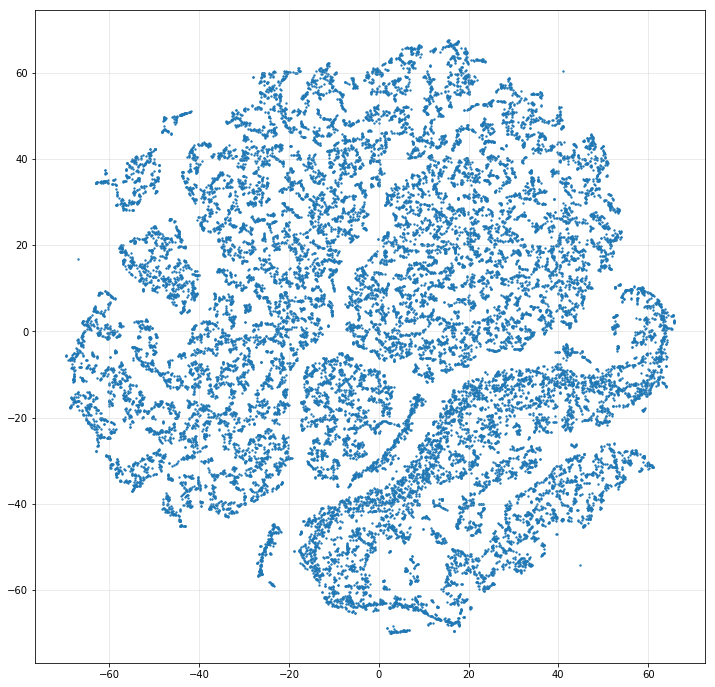
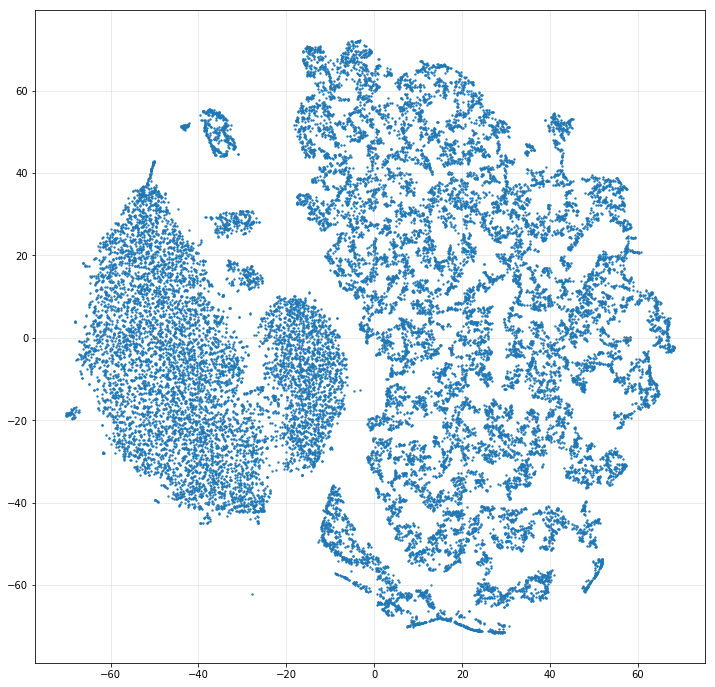
drafts

diff --git a/_drafts/2019-01-00-alphabeta.md b/_drafts/2019-01-00-alphabeta.md
@@ -21,12 +21,12 @@ An example of the stadard template, the vertical line indicates the cut-off used
 Signal noise
 ![Sharp Fluctuation][sharp]
 
-As we compare every event to a standard template, that means for every known signal, we have to painstakingly recreate the template waveform for every type of signal. This procedure has to be repeated if there is a minor change to detector system as a simple temperature can affect the way of the waveform detected. However, the signal is not always necessary consistent for the same kind of signal. Noises within the data can distort the interpreted information and it is heavily dependent by us as physcist to identify all possible senarios beforehand. Are machine learning tools can be incorperated into 
+As we compare every event to a standard template, that means for every known signal, we have to painstakingly recreate the template waveform for every type of signal. This procedure has to be repeated if there is a minor change to detector system as a simple temperature can affect the way of the waveform detected. However, the signal is not always necessary consistent for the same kind of signal. Noises within the data can distort the interpreted information and it is heavily dependent by us as physcist to identify all possible senarios beforehand. This labourous task is proven to be effective in the data analysis process in our physics experiment.
 
 Unsupervised Learning as Anomaly detection
 ====
 
-Within physics, machine learning has gain quite the popularity due to versatility of neural network can be applied in multitude of different ways. In some cases, improving the result compared to other know techniques/algorithms. With the wreath of data available in physics, it is no surprise how beneficial ML technique to physicist where ML techniques are mostly driven by the vast availability of data.
+Within physics, machine learning has gain quite the popularity due to versatility of neural network can be applied in multitude of different ways. In some cases, improving the result compared to other know techniques/algorithms. With the wreath of data available in physics, it is no surprise how beneficial ML technique to physicist where ML techniques are mostly driven by the vast availability and size of data.
 
 A particular algorithm in ML, t-Distributed Stochastic Neighbor Embedding (t-SNE) is an extremely useful technique where dimensionality of data can be reduced and the dataset can be visually represented in 2D/3D plots. This can be useful to observe the number of subset that present in the dataset. This can prove useful in physics experiments especially in experiments where physicist are hunting signal is unknown to mankind, ie:- dark matter. As we lack the full knowledge of how dark matter interacts normal matter of our detectors, we can only best predict dark matter signal by getting rid of known signals or predict the signal based on theoretical assumption of how dark matter might produce the signal. t-SNE might be a useful technique to visualise the number of subset from experimental dataset.
 
@@ -42,34 +42,79 @@ The goal of the VAE is to reproduce the waveform of a single events. Therefore t
 
 ![train]
 
-To ensure every node in the VAE is properly trained, I made additional training data by flipping the waveform backwards and randomly shift the pulse randomly and generate pure noise (np.flip/np.roll). At the end I have about ~200,000 waveforms that can be used to train the VEA. It is not necessary that the VAE has to reproduce the waveform perfectly but sufficiently captures the features of the waveforms in its latent variable. The reproduce waveform captures the primary features of the waveform is sufficient for such task.
+To ensure every node in the VAE is properly trained, I made additional training data by flipping the waveform backwards and randomly shift the pulse randomly and generate pure noise (np.flip/np.roll). At the end I have about ~200,000 waveforms that can be used to train the VEA. The goal was of the training is to reproduce the input waveform as close as possible but not necessary a perfect clone of it. A general reproduction of generic shape of the waveform would be sufficient. The goal here is that the VAE is able to encapsulate the primary features of waveform in its latent variable.
 
 ![vae] 
 
 Separating 2 different events
 ====
-Using 2 dataset that was used to create the template waveform, a blind test was carried out. The 2 dataset are combined and shuffled while retaining the label for checking(only waveform information was used, the labels are hidden away-blinded). Initial plot of the t-SNE show promising result that the VAE were able to identify unique features of respective group of waveforms. Although the clustering was not perfect as there are some overlap. These overlap are of no indication of misidentification but rather the uncertainties exist in the dataset itself.
+
+Using 2 dataset that was used to create the template waveforms, I used them and tested them on the trained VAE. The 2 dataset are combined and shuffled while retaining the label for checking. The difference between the template dataset was shown as below:-
 
 ![alphabeta]
 
-Adding 3rd unique type of events
-====
-Here I added a different type of dataset into the mix where the difference of this additional dataset is larger than the difference of the previous 2. Here I am going test if the clustering this time will lump the 2 previous group together as they have smaller difference in shape compared to this additional events.
+The main difference between the two dataset is in the early portion of the waveform.
 
-Here we can see a distinct 3 different clusters which corresponds to the 3 different dataset
+![2zoom]
+
+This shuffled data set is then feeded into the Encoder of the VAE to obtain the latent variable that represent the waveform of the dataset. This "transform" latent variable dataset is pprocess through a t-SNE algorithm where each event is represented on a 2 dimensional plot.
+
+![tsne]
+
+Here we can clearly see that there is 2 distinct cluster on the t-SNE plot which does show that this dataset does indeed have 2 different type of waveform. To verify the that the 2d data points on the t-SNE plot does indeed correspond to the 2 waveform, I labelled each point according to the waveform template dataset that is was derived from.
+
+![tsneori]
+
+The result does reflect the 2 distinct group of data. the overlapping of some point is as expected due to the similarities in the waveform shape. The conventional method, $\chi^2$ fitting also produces similar distribution. The $\chi^2$ parameter that was originally derived to separate these 2 group of data, also does show some overlapping. 
+
+A $\chi^2$ fitting parameter that considered the whole information of the waveform.
+
+![psd1]
+
+A $\chi^2$ fitting parameter that only considered the early part of the waveform. This is the parameter that was used in our physics analysis to distingusih these 2 type of waveforms.
+
+![psd7]
+
+The tsne plot using the cut off point in the $\chi^2$ parameter distribution
+
+![tsnepsd]
+
+Adding 3rd type of events into the mix
+====
+To verify that the result of the latent variable of the VAE shown through t-SNE is not a fluke. I added an additional different type of dataset into the previous 2 dataset. This 3rd dataset have a larger difference with the previous 2 where this 3rd dataset is a sharp repidly decaying pulse. The shape itself is distinctively different.
+
+The plot clearly shows this 3rd dataset, "LS" is clearly different from the previous 2 "beta" and "alpha".
+
+![3gr]
+
+The dataset are shuffled while retaining the label it comes from for checking purposes. The shuffled dataset is process through the encoder of the VAE to obtain the latent representation and visualised through t-SNE. The same procedure as distinguish the 2 group dataset.
+
+![3tsne]
+
+The plot below shows the origin of the dataset it comes from.
+
+![3tsneori]
+
+The plots below shows if the labelling of the data done based on the distribution of a $\chi^2$ fitting parameter.
+
+![3dist]
+
+![3tsnepsd]
 
 Applying to Actual dataset
 ====
 This is a dataset where events happens nears the region of interest based on the reconstructed energy parameter from the waveforms. This energy parameter is primarily based on the height and area under the pulse as these two attributes is proportional to the energy release per events and the amount of scintillating light.
 
-Here we see a much more messy clustering where there is no single dominant cluster can be singled individually. This reflects that there is not a clearcut separation can be made of the dataset. However if we are to solely separate the dataset through the pulse shape only. This will provide an alternative method to analyse the dataset.
+![roi]
 
-Calculating the half life limit of $0\nu\beta\beta$ of Ca$_{48}$
+Comparing to curve fitting method
 ====
+![roipsd]
 
-Improving VAE with GAN
+
+training VAE with GAN
 ====
-Produced a similiar result to standalone VAE. However, during training, the loss stll slowly decreasing which an indication the GAN is still learning. The waveform quality reproduced by VAE also show considerable improvement.
+The VAE that was trained from scratch using GAN manage to perform similarly to training a standalone VAE.
 
 
 Aspects to consider:-
@@ -77,10 +122,22 @@ Aspects to consider:-
 * If VAE can derives discriminating parameters by itself, how can we interpret it effectively?
 
 [beta]: https://raw.githubusercontent.com/hareyakana/hareyakana.github.io/master/images/beta.png
-
 [sharp]: https://raw.githubusercontent.com/hareyakana/hareyakana.github.io/master/images/noise.png
 [vis]: https://raw.githubusercontent.com/hareyakana/hareyakana.github.io/master/images/sketchblog.png
 [train]: https://raw.githubusercontent.com/hareyakana/hareyakana.github.io/master/images/train.png
 [vae]: https://raw.githubusercontent.com/hareyakana/hareyakana.github.io/master/images/vae.png
+[tsne]: https://raw.githubusercontent.com/hareyakana/hareyakana.github.io/master/images/tsne.png
+[tsneori]: https://raw.githubusercontent.com/hareyakana/hareyakana.github.io/master/images/tsneori.png
+[tsnepsd]: https://raw.githubusercontent.com/hareyakana/hareyakana.github.io/master/images/tsnepsd.png
 [alphabeta]: https://raw.githubusercontent.com/hareyakana/hareyakana.github.io/master/images/2sam.png
 [2zoom]: https://raw.githubusercontent.com/hareyakana/hareyakana.github.io/master/images/2samfo.png
+[psd1]: https://raw.githubusercontent.com/hareyakana/hareyakana.github.io/master/images/psd1.png
+[psd7]: https://raw.githubusercontent.com/hareyakana/hareyakana.github.io/master/images/psd7.png
+[3gr]: https://raw.githubusercontent.com/hareyakana/hareyakana.github.io/master/images/3gr.png
+[3tsne]: https://raw.githubusercontent.com/hareyakana/hareyakana.github.io/master/images/3tsne.png
+[3tsneori]: https://raw.githubusercontent.com/hareyakana/hareyakana.github.io/master/images/3tsneori.png
+[3tsnepsd]: https://raw.githubusercontent.com/hareyakana/hareyakana.github.io/master/images/3tsnepsd.png
+[3dist]: https://raw.githubusercontent.com/hareyakana/hareyakana.github.io/master/images/3distribution.png
+[roi]: https://raw.githubusercontent.com/hareyakana/hareyakana.github.io/master/images/tsneroi.png
+[roipsd]: https://raw.githubusercontent.com/hareyakana/hareyakana.github.io/master/images/tsneroipsd.png
+
